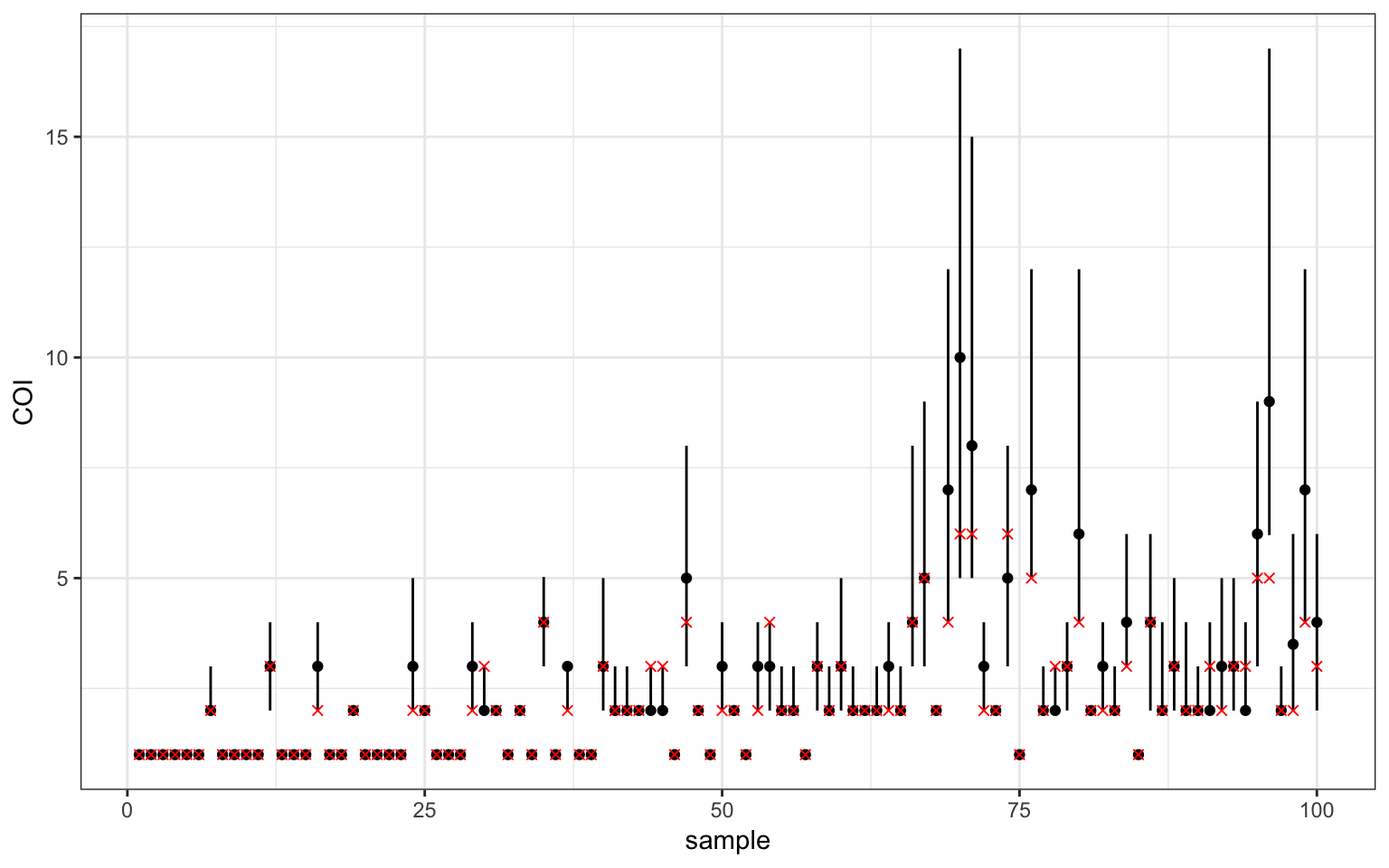
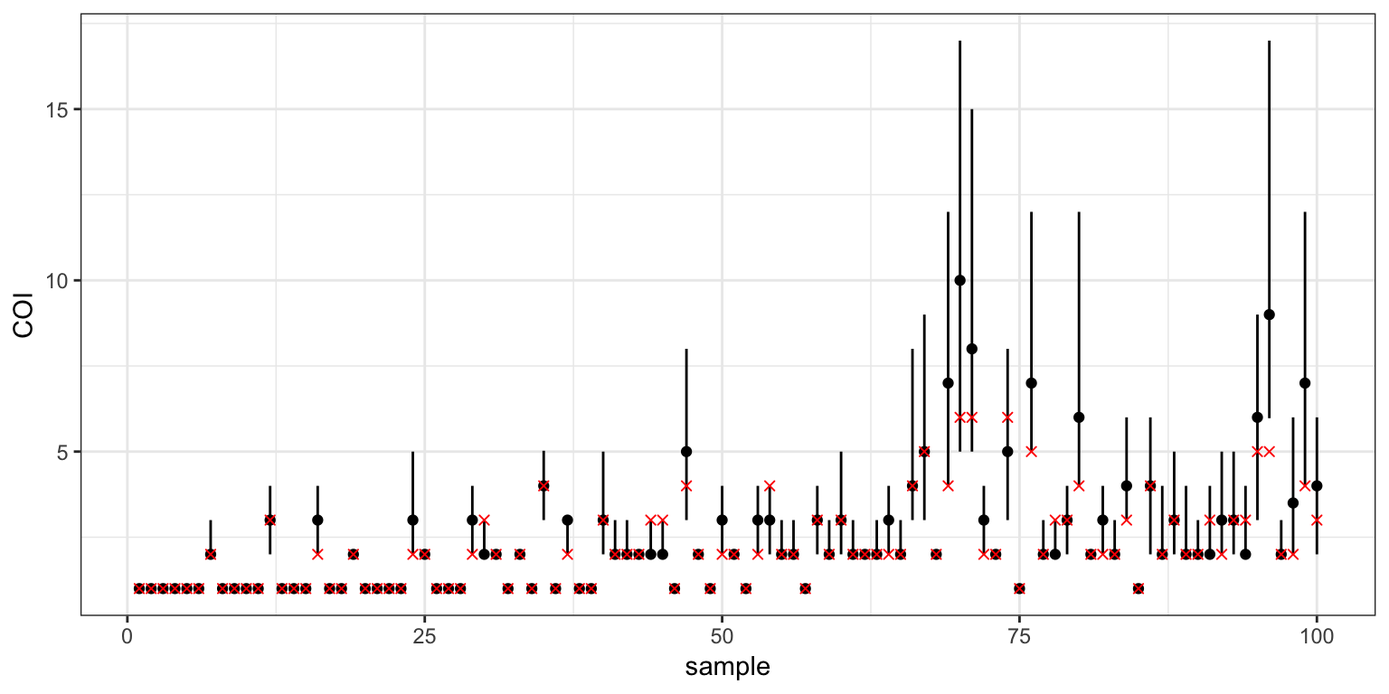
expanded complex priors tutorial

diff --git a/docs/articles/complex-priors.html b/docs/articles/complex-priors.html
@@ -5,11 +5,11 @@
 <meta charset="utf-8">
 <meta http-equiv="X-UA-Compatible" content="IE=edge">
 <meta name="viewport" content="width=device-width, initial-scale=1.0">
-<title>Tutorial 2: more realistic priors • MALECOT</title>
+<title>Tutorial 2: more realistic data and priors • MALECOT</title>
 <!-- jquery --><script src="https://code.jquery.com/jquery-3.1.0.min.js" integrity="sha384-nrOSfDHtoPMzJHjVTdCopGqIqeYETSXhZDFyniQ8ZHcVy08QesyHcnOUpMpqnmWq" crossorigin="anonymous"></script><!-- Bootstrap --><link href="https://maxcdn.bootstrapcdn.com/bootswatch/3.3.7/yeti/bootstrap.min.css" rel="stylesheet" crossorigin="anonymous">
 <script src="https://maxcdn.bootstrapcdn.com/bootstrap/3.3.7/js/bootstrap.min.js" integrity="sha384-Tc5IQib027qvyjSMfHjOMaLkfuWVxZxUPnCJA7l2mCWNIpG9mGCD8wGNIcPD7Txa" crossorigin="anonymous"></script><!-- Font Awesome icons --><link href="https://maxcdn.bootstrapcdn.com/font-awesome/4.6.3/css/font-awesome.min.css" rel="stylesheet" integrity="sha384-T8Gy5hrqNKT+hzMclPo118YTQO6cYprQmhrYwIiQ/3axmI1hQomh7Ud2hPOy8SP1" crossorigin="anonymous">
 <!-- clipboard.js --><script src="https://cdnjs.cloudflare.com/ajax/libs/clipboard.js/1.7.1/clipboard.min.js" integrity="sha384-cV+rhyOuRHc9Ub/91rihWcGmMmCXDeksTtCihMupQHSsi8GIIRDG0ThDc3HGQFJ3" crossorigin="anonymous"></script><!-- pkgdown --><link href="../pkgdown.css" rel="stylesheet">
-<script src="../jquery.sticky-kit.min.js"></script><script src="../pkgdown.js"></script><meta property="og:title" content="Tutorial 2: more realistic priors">
+<script src="../jquery.sticky-kit.min.js"></script><script src="../pkgdown.js"></script><meta property="og:title" content="Tutorial 2: more realistic data and priors">
 <meta property="og:description" content="">
 <meta name="twitter:card" content="summary">
 <!-- mathjax --><script src="https://mathjax.rstudio.com/latest/MathJax.js?config=TeX-AMS-MML_HTMLorMML"></script><!--[if lt IE 9]>
@@ -85,7 +85,7 @@
       </header><div class="row">
   <div class="col-md-9 contents">
     <div class="page-header toc-ignore">
-      <h1>Tutorial 2: more realistic priors</h1>
+      <h1>Tutorial 2: more realistic data and priors</h1>
                         <h4 class="author">Vignette Author</h4>
             
             <h4 class="date">2018-09-17</h4>
@@ -101,19 +101,19 @@
 <ul>
 <li>different types of prior on COI</li>
 <li>more realistic priors on allele frequencies</li>
-<li>estimating error rates</li>
+<li>dealing with missing data and errors</li>
 </ul>
-<p>This vignette follows on from the previous tutorial - or you can pick up at this point by running these lines:</p>
+<p>This vignette follows on from the previous tutorial - or you can pick up here by running these lines:</p>
 <div class="sourceCode"><pre class="sourceCode r"><code class="sourceCode r"><span class="co"># load output of previous tutorial</span>
 mysim &lt;-<span class="st"> </span><span class="kw"><a href="../reference/malecot_file.html">malecot_file</a></span>(<span class="st">"tutorial1_mysim.rds"</span>)
 myproj &lt;-<span class="st"> </span><span class="kw"><a href="../reference/malecot_file.html">malecot_file</a></span>(<span class="st">"tutorial1_myproj.rds"</span>)</code></pre></div>
 <div id="more-complex-priors-on-coi" class="section level3">
 <h3 class="hasAnchor">
 <a href="#more-complex-priors-on-coi" class="anchor"></a>More complex priors on COI</h3>
-<p>The previous model assumed a uniform prior on COI. This tends to be too permissive for real data as it gives considerable weight to high values and can therefore lead to an over-estimation of COIs. There are two alternative options implemented in MALECOT - the Poisson distribution and the negative binomial distribution.</p>
+<p>The previous model assumed a uniform prior on COI. This tends to be too permissive for real data as it gives considerable weight to high COIS and can therefore lead to over-estimation. There are two alternative priors implemented in MALECOT - the Poisson distribution and the negative binomial distribution.</p>
 <p>The Poisson distribution assumes that COIs are clustered around a mean value. It is what we would expect if all individuals in the population were becoming infected and clearing infections at the same constant rate. The negative binomial distribution can be thought of as an over-dispersed Poisson distribution (i.e. it allows for a greater spread of values around the mean). It more closely reflects a situation where there is heterogeneity in exposure, meaning some individuals tend to be heavily infected and some only lightly infected. Note that whaterver prior we choose, COIs will still be truncated at <code>COI_max</code>.</p>
-<p>The simulated data were generated from a Poisson distribution, and so we could use this prior to exactly match the model to the simulated data. However, in reality we will not have this luxury, and so here we will use a negative binomial prior. We can use the parameter <code>COI_dispersion</code> to set the level of over-dispersion compared to the Poisson distribution - for example, a value of 2 means the prior variance will be twice that of the Poisson distribution. The argument <code>COI_mean = TRUE</code> tells the model that we want to estimate the mean COI for each subpopulation, rather than using a set value.</p>
-<p>In some cases we may want to specify the COI of certain samples manually - for example if we want to use other programs to estimate the COI and then use MALECOT to estimate the population structure. This can be accommodated using the <code>COI_manual</code> argument, which takes a vector of length equal to the number of samples. Values of -1 indicate that the COI should be estimated, while positive values indicate that the COI should be fixed at that value. In this example we will assume that we know the true COIs of the last 10 samples.</p>
+<p>The simulated data were generated from a Poisson distribution, and so we could use this prior to exactly match the inference model to the simulated data. However, in reality we will not have this luxury, and so here we will use a negative binomial prior. We can use the parameter <code>COI_dispersion</code> to set the level of over-dispersion compared to the Poisson distribution - for example, a value of 2 means the prior variance will be twice that of the Poisson distribution. The argument <code>COI_mean = TRUE</code> tells the model that we want to estimate the mean COI for each subpopulation, rather than using a set value.</p>
+<p>In some cases we may want to specify the COI of certain samples manually - for example if we have used other programs to estimate the COI using different methods. This can be accommodated using the <code>COI_manual</code> argument, which takes a vector of length equal to the number of samples. Values of -1 indicate that the COI should be estimated, while positive values indicate that the COI should be fixed at that value. In this example we will assume that we know the true COIs of the last 10 samples.</p>
 <div class="sourceCode"><pre class="sourceCode r"><code class="sourceCode r"><span class="co"># define some COIs manually</span>
 known_COI &lt;-<span class="st"> </span><span class="kw">rep</span>(-<span class="dv">1</span>,<span class="dv">100</span>)
 known_COI[<span class="dv">91</span>:<span class="dv">100</span>] &lt;-<span class="st"> </span>mysim$true_m[<span class="dv">91</span>:<span class="dv">100</span>]
@@ -144,75 +144,27 @@ myproj</code></pre></div>
 ##    estimate error = FALSE
 ##    e1 = 0
 ##    e2 = 0</code></pre>
-<p>As before, we run the MCMC using the <code><a href="../reference/run_mcmc.html">run_mcmc()</a></code> command.</p>
-<div class="sourceCode"><pre class="sourceCode r"><code class="sourceCode r">myproj &lt;-<span class="st"> </span><span class="kw"><a href="../reference/run_mcmc.html">run_mcmc</a></span>(myproj, <span class="dt">K =</span> <span class="dv">1</span>:<span class="dv">5</span>, <span class="dt">burnin =</span> <span class="fl">1e4</span>, <span class="dt">converge_test =</span> <span class="fl">1e2</span>, <span class="dt">samples =</span> <span class="fl">1e3</span>,
-                   <span class="dt">rungs =</span> <span class="dv">10</span>, <span class="dt">pb_markdown =</span>  <span class="ot">TRUE</span>)</code></pre></div>
-<pre><code>## Running MCMC for K = 1
+<p>As before, we run the MCMC using the <code><a href="../reference/run_mcmc.html">run_mcmc()</a></code> command:</p>
+<div class="sourceCode"><pre class="sourceCode r"><code class="sourceCode r">myproj &lt;-<span class="st"> </span><span class="kw"><a href="../reference/run_mcmc.html">run_mcmc</a></span>(myproj, <span class="dt">K =</span> <span class="dv">3</span>, <span class="dt">burnin =</span> <span class="fl">1e4</span>, <span class="dt">converge_test =</span> <span class="fl">1e2</span>, <span class="dt">samples =</span> <span class="fl">1e3</span>,
+                   <span class="dt">rungs =</span> <span class="dv">1</span>, <span class="dt">pb_markdown =</span>  <span class="ot">TRUE</span>)</code></pre></div>
+<pre><code>## Running MCMC for K = 3
 ## Burn-in phase
 ## 
   |                                                                       
   |=================================================================| 100%
-##    converged within 900 iterations
+##    converged within 100 iterations
 ## Sampling phase
 ## 
   |                                                                       
   |=================================================================| 100%
-##    completed in 4.92508 seconds
-## 
-## Running MCMC for K = 2
-## Burn-in phase
-## 
-  |                                                                       
-  |=================================================================| 100%
-##    converged within 3300 iterations
-## Sampling phase
-## 
-  |                                                                       
-  |=================================================================| 100%
-##    completed in 11.1526 seconds
-## 
-## Running MCMC for K = 3
-## Burn-in phase
-## 
-  |                                                                       
-  |=================================================================| 100%
-##    converged within 700 iterations
-## Sampling phase
-## 
-  |                                                                       
-  |=================================================================| 100%
-##    completed in 8.43927 seconds
-## 
-## Running MCMC for K = 4
-## Burn-in phase
-## 
-  |                                                                       
-  |=================================================================| 100%
-##    converged within 200 iterations
-## Sampling phase
-## 
-  |                                                                       
-  |=================================================================| 100%
-##    completed in 9.04909 seconds
-## 
-## Running MCMC for K = 5
-## Burn-in phase
-## 
-  |                                                                       
-  |=================================================================| 100%
-##    converged within 300 iterations
-## Sampling phase
-## 
-  |                                                                       
-  |=================================================================| 100%
-##    completed in 12.2001 seconds
+##    completed in 0.374105 seconds
 ## 
 ## Processing results</code></pre>
-<pre><code>## Total run-time: 49.03 seconds</code></pre>
-<p>As before, we need to check that we are happy with the behaviour of our MCMC by looking at GTI paths and trace plots etc. Assuming everything looks OK, we can go ahead and produce the structure plot and posterior COIs against the true values:</p>
+<pre><code>## Total run-time: 0.88 seconds</code></pre>
+<p>As before, we need to check that we are happy with the behaviour of our MCMC by looking at GTI paths, trace plots, and any other useful diagnostics. Assuming everything looks OK, we can go ahead and produce the structure and posterior COI plots:</p>
 <div class="sourceCode"><pre class="sourceCode r"><code class="sourceCode r"><span class="co"># structure plot</span>
 <span class="kw"><a href="../reference/plot_qmatrix.html">plot_qmatrix</a></span>(myproj, <span class="dt">K =</span> <span class="dv">3</span>, <span class="dt">divide_ind_on =</span> <span class="ot">TRUE</span>)</code></pre></div>
-<p><img src="complex-priors_files/figure-html/unnamed-chunk-5-1.png" width="700"></p>
+<p><img src="complex-priors_files/figure-html/unnamed-chunk-5-1.png" width="768"></p>
 <div class="sourceCode"><pre class="sourceCode r"><code class="sourceCode r"><span class="co"># plot posterior COIs</span>
 posterior_m &lt;-<span class="st"> </span><span class="kw"><a href="../reference/plot_m_quantiles.html">plot_m_quantiles</a></span>(myproj, <span class="dt">K =</span> <span class="dv">3</span>)
 
@@ -220,21 +172,111 @@ posterior_m &lt;-<span class="st"> </span><span class="kw"><a href="../reference
 <span class="kw">library</span>(ggplot2)
 posterior_m &lt;-<span class="st"> </span>posterior_m +<span class="st"> </span><span class="kw"><a href="http://www.rdocumentation.org/packages/ggplot2/topics/geom_point">geom_point</a></span>(<span class="kw"><a href="http://www.rdocumentation.org/packages/ggplot2/topics/aes">aes</a></span>(<span class="dt">x =</span> <span class="dv">1</span>:<span class="dv">100</span>, <span class="dt">y =</span> mysim$true_m), <span class="dt">col =</span> <span class="st">"red"</span>, <span class="dt">shape =</span> <span class="dv">4</span>)
 posterior_m</code></pre></div>
-<p><img src="complex-priors_files/figure-html/unnamed-chunk-5-2.png" width="700"></p>
-<p>Notice that the 95% credible intervals in this plot are tighter than under the uniform prior of the previous tutorial. This is because a series of low COI samples in a subpopulation tells us something about the overall transmission intensity of that subpopulation, which in turn makes it less likely that we will see high COI samples in future samples. Notice also that the final 10 samples have their COI fixed at the correct value, as specified by the <code>COI_manual</code> argument.</p>
-<p>Next we can look at the estimated mean COI for each of the</p>
+<p><img src="complex-priors_files/figure-html/unnamed-chunk-6-1.png" width="768"></p>
+<p>Notice that the 95% credible intervals in this plot are tighter than in the previous tutorial. This is because our prior now assumes that COIs are clustered around a mean value for each subpopulation. Notice also that the final 10 samples have their COI fixed at the correct value, as specified by the <code>COI_manual</code> argument.</p>
+<p>Next we can look at the estimated mean COI for each of the subpopulations:</p>
 <div class="sourceCode"><pre class="sourceCode r"><code class="sourceCode r"><span class="kw"><a href="../reference/plot_COI_mean_quantiles.html">plot_COI_mean_quantiles</a></span>(myproj, <span class="dt">K =</span> <span class="dv">3</span>)</code></pre></div>
-<p><img src="complex-priors_files/figure-html/unnamed-chunk-6-1.png" width="700"></p>
+<p><img src="complex-priors_files/figure-html/unnamed-chunk-7-1.png" width="700"></p>
+<p>Recall that the data were simulated from three subpopulations with true mean COIs of 1.2, 2, and 3 respectively. The model appears to have estimated roughly the same values, although in a different order. We can understand the ordering issue by looking at the structure plot above. In the structure plot, groupings read from left to right go 3, then 2, then 1; the reason being that MALECOT chooses groupings to make outputs as similar as possible over different values of <em>K</em>. If we read the mean COI estimates in this order (3,2,1) we can see that the model has indeed estimated the correct values.</p>
 </div>
 <div id="more-realistic-priors-on-allele-frequencies" class="section level3">
 <h3 class="hasAnchor">
 <a href="#more-realistic-priors-on-allele-frequencies" class="anchor"></a>More realistic priors on allele frequencies</h3>
 <p>(TODO)</p>
 </div>
-<div id="estimating-error-rates" class="section level3">
+<div id="missing-data-and-errors" class="section level3">
 <h3 class="hasAnchor">
-<a href="#estimating-error-rates" class="anchor"></a>Estimating error rates</h3>
-<p>Finally, we do not always want to assume that we have zero error in our data. Often true homozygotes will be called as heterozygotes (error 1), and true heterozygotes will be called as homozygotes (error 2). The probabilities of these two types of error can be specified in the model using the arguments <code>e1</code> and <code>e2</code>. Alternatively, these error probabilities can be estimated by setting <code>estimate_error = TRUE</code>, in which case a uniform prior is assumed ranging from 0 to <code>e1_max</code> for <code>e1</code>, and 0 to <code>e2_max</code> for <code>e2</code>. It is recommended to use sensible values for <code>e1_max</code> and <code>e2_max</code>, for example values of 1 are usually inappropriate as we do not expect all of our data to be mistakes.</p>
+<a href="#missing-data-and-errors" class="anchor"></a>Missing data and errors</h3>
+<p>Finally, we do not always want to assume that we have zero error in our data. Often true homozygotes will be miscalled as heterozygotes (error 1), and true heterozygotes will be miscalled as homozygotes (error 2). The probabilities of these two types of error can be specified in the model using the arguments <code>e1</code> and <code>e2</code>. We can either use fixed values, or these error probabilities can be estimated by setting <code>estimate_error = TRUE</code>, in which case a uniform prior is assumed ranging from 0 to <code>e1_max</code> for <code>e1</code>, and 0 to <code>e2_max</code> for <code>e2</code>. It is recommended to use sensible values for <code>e1_max</code> and <code>e2_max</code> - for example values of 1 are usually inappropriate as we do not expect all of our data to be mistakes.</p>
+<div class="sourceCode"><pre class="sourceCode r"><code class="sourceCode r">mysim_errors &lt;-<span class="st"> </span><span class="kw"><a href="../reference/sim_data.html">sim_data</a></span>(<span class="dt">n =</span> <span class="dv">100</span>, <span class="dt">L =</span> <span class="dv">24</span>, <span class="dt">K =</span> <span class="dv">3</span>, <span class="dt">e1 =</span> <span class="fl">0.1</span>, <span class="dt">e2 =</span> <span class="fl">0.05</span>, <span class="dt">prop_missing =</span> <span class="fl">0.1</span>)</code></pre></div>
+<p>Extra output:</p>
+<div class="sourceCode"><pre class="sourceCode r"><code class="sourceCode r"><span class="kw">names</span>(mysim_errors)</code></pre></div>
+<pre><code>## [1] "data"             "n"                "L"               
+## [4] "data_uncorrupted" "true_group"       "true_m"          
+## [7] "true_p"           "call"</code></pre>
+<p>Compare uncorrupted and corrupted data:</p>
+<div class="sourceCode"><pre class="sourceCode r"><code class="sourceCode r"><span class="kw">head</span>(mysim_errors$data)</code></pre></div>
+<pre><code>##   sample_ID pop locus1 locus2 locus3 locus4 locus5 locus6 locus7 locus8
+## 1   samp001   1    1.0    1.0    1.0    1.0    0.5    0.5    0.0    0.5
+## 2   samp002   1    1.0    1.0    1.0    0.5    0.5    0.5    0.5    0.0
+## 3   samp003   1    0.5    1.0    0.5    1.0    0.0    0.0    1.0    1.0
+## 4   samp004   1    0.5    0.5    1.0    0.5    0.5    1.0   -9.0    0.5
+## 5   samp005   1    1.0    0.5    1.0    0.5   -9.0    1.0    0.5    0.0
+## 6   samp006   1    1.0    0.5    1.0    0.5    0.5    0.5    0.5   -9.0
+##   locus9 locus10 locus11 locus12 locus13 locus14 locus15 locus16 locus17
+## 1    0.5     1.0     0.0     0.5     1.0     0.0       1     0.5     0.0
+## 2    0.0    -9.0     0.0     0.0     1.0     0.5       1     0.0     0.5
+## 3    0.0     0.5     1.0     1.0     1.0     0.0       1     0.0     0.0
+## 4    0.5     0.5     0.5     0.5     0.5     0.5       1     0.5     0.5
+## 5    0.5     1.0     0.5     0.5     0.5     0.5       1     0.5     0.5
+## 6    0.5     1.0    -9.0    -9.0     1.0     0.0       1    -9.0     0.0
+##   locus18 locus19 locus20 locus21 locus22 locus23 locus24
+## 1     0.0     0.5     1.0       0     1.0     0.5     1.0
+## 2     0.5     0.5     1.0       0     1.0     1.0     0.0
+## 3     1.0     1.0     0.5      -9     1.0     1.0     0.0
+## 4     0.5     0.5     0.5       0     0.5     0.5     0.5
+## 5     0.0     0.0     0.5       0     0.5     0.0     0.5
+## 6     0.5     0.5     0.5       0     0.5     0.5     0.5</code></pre>
+<div class="sourceCode"><pre class="sourceCode r"><code class="sourceCode r"><span class="kw">head</span>(mysim_errors$data_uncorrupted)</code></pre></div>
+<pre><code>##   sample_ID pop locus1 locus2 locus3 locus4 locus5 locus6 locus7 locus8
+## 1   samp001   1    1.0    1.0      1    1.0    0.5    0.5    0.0    0.5
+## 2   samp002   1    1.0    0.5      1    0.5    0.5    0.5    0.5    0.0
+## 3   samp003   1    1.0    1.0      1    1.0    0.0    0.0    1.0    1.0
+## 4   samp004   1    0.5    0.5      1    0.5    0.5    1.0    0.5    0.5
+## 5   samp005   1    1.0    0.5      1    0.5    0.0    1.0    0.5    0.0
+## 6   samp006   1    1.0    0.5      1    0.5    0.5    0.5    0.5    0.5
+##   locus9 locus10 locus11 locus12 locus13 locus14 locus15 locus16 locus17
+## 1    0.5     1.0     0.0     0.5     1.0     0.0       1     0.5     0.0
+## 2    0.0     1.0     0.0     0.0     1.0     0.5       1     0.0     0.5
+## 3    0.0     0.0     1.0     1.0     1.0     0.0       1     0.0     0.0
+## 4    0.5     0.5     0.5     0.5     0.5     0.5       1     0.5     0.5
+## 5    0.5     1.0     0.5     0.5     0.5     0.5       1     0.5     1.0
+## 6    0.5     1.0     1.0     0.5     1.0     0.0       1     0.0     0.0
+##   locus18 locus19 locus20 locus21 locus22 locus23 locus24
+## 1     0.0     0.5     1.0       0     1.0     0.5     1.0
+## 2     0.5     0.5     1.0       0     1.0     1.0     0.0
+## 3     1.0     1.0     0.0       0     1.0     1.0     0.0
+## 4     0.5     0.5     0.5       0     0.5     0.5     0.5
+## 5     0.0     0.0     0.0       0     0.5     0.0     0.5
+## 6     0.5     0.5     0.5       0     0.5     0.0     0.5</code></pre>
+<p>Create new project and bind data</p>
+<div class="sourceCode"><pre class="sourceCode r"><code class="sourceCode r">myproj_errors &lt;-<span class="st"> </span><span class="kw"><a href="../reference/malecot_project.html">malecot_project</a></span>()
+myproj_errors &lt;-<span class="st"> </span><span class="kw"><a href="../reference/bind_data_biallelic.html">bind_data_biallelic</a></span>(myproj_errors, mysim_errors$data, <span class="dt">ID_col =</span> <span class="dv">1</span>, <span class="dt">pop_col =</span> <span class="dv">2</span>)
+myproj_errors</code></pre></div>
+<pre><code>## DATA:
+##    data format = biallelic
+##    samples = 100
+##    loci = 24
+##    pops = 3
+##    missing data = 240 of 2400 gene copies (10%)
+## 
+## PARAMETER SETS:
+##    (none defined)</code></pre>
+<p>Check that registered 10% missing data.</p>
+<div class="sourceCode"><pre class="sourceCode r"><code class="sourceCode r"><span class="co"># create new parameter set</span>
+myproj_errors &lt;-<span class="st"> </span><span class="kw"><a href="../reference/new_set.html">new_set</a></span>(myproj_errors, <span class="dt">name =</span> <span class="st">"errors"</span>, <span class="dt">COI_model =</span> <span class="st">"poisson"</span>,
+                         <span class="dt">COI_max =</span> <span class="dv">20</span>, <span class="dt">estimate_COI_mean =</span> <span class="ot">TRUE</span>,
+                         <span class="dt">estimate_error =</span> <span class="ot">TRUE</span>, <span class="dt">e1_max =</span> <span class="fl">0.2</span>, <span class="dt">e2_max =</span> <span class="fl">0.2</span>)
+
+myproj_errors &lt;-<span class="st"> </span><span class="kw"><a href="../reference/run_mcmc.html">run_mcmc</a></span>(myproj_errors, <span class="dt">K =</span> <span class="dv">3</span>, <span class="dt">burnin =</span> <span class="fl">1e4</span>, <span class="dt">converge_test =</span> <span class="fl">1e2</span>, <span class="dt">samples =</span> <span class="fl">1e3</span>,
+                          <span class="dt">rungs =</span> <span class="dv">1</span>, <span class="dt">pb_markdown =</span>  <span class="ot">TRUE</span>)</code></pre></div>
+<pre><code>## Running MCMC for K = 3
+## Burn-in phase
+## 
+  |                                                                       
+  |=================================================================| 100%
+##    converged within 100 iterations
+## Sampling phase
+## 
+  |                                                                       
+  |=================================================================| 100%
+##    completed in 0.380256 seconds
+## 
+## Processing results</code></pre>
+<pre><code>## Total run-time: 0.67 seconds</code></pre>
+<div class="sourceCode"><pre class="sourceCode r"><code class="sourceCode r"><span class="kw"><a href="../reference/plot_e_quantiles.html">plot_e_quantiles</a></span>(myproj_errors)</code></pre></div>
+<pre><code>## using K = 3 by default</code></pre>
+<p><img src="complex-priors_files/figure-html/unnamed-chunk-15-1.png" width="700"></p>
 </div>
   </div>
 

diff --git a/docs/articles/tutorial-biallelic.html b/docs/articles/tutorial-biallelic.html
@@ -139,7 +139,7 @@
 ## 4       0       0       0       1       0       1       1
 ## 5       0       1       0       0       0       1       1
 ## 6       0       0       0       1       0       0       1</code></pre>
-<p>Note that this is the required format <strong>for bi-allelic data only</strong> - multi-allelic data is dealt with in <a href="https://bobverity.github.io/MALECOT/articles/tutorial-multiallelic.html">this vignette</a>.</p>
+<p>Note that this is the required format <strong>for bi-allelic data only</strong> - multi-allelic data is dealt with in <a href="https://bobverity.github.io/MALECOT/articles/tutorial-multiallelic.html">another vignette</a>.</p>
 <p>Data must be in the form of a dataframe, with samples in rows and loci in columns. When using real data, functions such as <code>read.csv()</code> and <code>read.table()</code> can be used to import data in this format. There are several meta-data columns in the example above, including the sample ID and the population of origin. These meta-data columns are optional and can be turned on or off when loading the data into a project.</p>
 <p>The actual genetic data must be one of the following values</p>
 <ul>
@@ -148,7 +148,7 @@
 <li>0.5 = heterozygote (both alleles seen)</li>
 <li>-9 = missing data (this value can be specified, -9 is the default)</li>
 </ul>
-<p>MALECOT currently does not use within-sample allele frequency data - for example the raw read depth of REF vs. ALT alleles - and hence read depths should be converted to homozygote/heterozygote calls prior to analysis. MALECOT does, however, include error terms that allow for misclassification of homozygotes as heterozygotes and vice versa, which can account for some noise in the data.</p>
+<p>MALECOT currently does not use within-sample allele frequency data - for example the raw read depth of REF vs. ALT alleles - and hence read depths should be converted to homozygote/heterozygote calls prior to analysis. It does, however, include error terms that allow for misclassification of homozygotes as heterozygotes and vice versa, which can account for some noise in the data.</p>
 </div>
 <div id="create-a-project-and-read-in-data" class="section level3">
 <h3 class="hasAnchor">
@@ -195,7 +195,7 @@ myproj &lt;-<span class="st"> </span><span class="kw"><a href="../reference/bind
 ##    estimate error = FALSE
 ##    e1 = 0
 ##    e2 = 0</code></pre>
-<p>Now we are ready to run a basic MCMC. We will start by exploring values of <em>K</em> from 1 to 5, using 10,000 burn-in iterations and 1000 sampling iterations. By default the MCMC has <code>auto_converge</code> turned on, meaning it will test for convergence every <code>convergence_test</code> iterations and will exit if convergence is reached (<code>convergence_test = burnin/10</code> by default). Hence, it is generally a good idea to set <code>burnin</code> to be higher than expected, as the MCMC will adjust this number down if needed. The number of sampling iterations can also be tuned. Our aim when choosing the number of sampling iterations should be to obtain enough samples that our posterior estimates are accurate to an acceptable tolerance level, but not so many that we waste time running the MCMC for long periods past this point. We will look into this parameter again once the MCMC has completed. The most unfamiliar parameter for most users will be the number of “rungs”. MALECOT runs multiple MCMC chains simultaneously, each at a different rung on a “temperature ladder”. The cold chain is our ordinary MCMC chain, and the hot chains serve two purposes: 1) they improve MCMC mixing, 2) they are central to the GTI method of estimating the evidence for different models. Finally, for the sake of this document we will run with <code>pb_markdown = TRUE</code> to avoid printing large amounts of output, but you should omit this argument.</p>
+<p>Now we are ready to run a basic MCMC. We will start by exploring values of <em>K</em> from 1 to 5, using 10,000 burn-in iterations and 1000 sampling iterations. By default the MCMC has <code>auto_converge</code> turned on, meaning it will test for convergence every <code>convergence_test</code> iterations and will exit if convergence is reached. Hence, it is generally a good idea to set <code>burnin</code> to be higher than expected, as the MCMC will adjust this number down if needed. The number of sampling iterations can also be tuned. Our aim when choosing the number of sampling iterations should be to obtain enough samples that our posterior estimates are accurate to an acceptable tolerance level, but not so many that we waste time running the MCMC for long periods past this point. We will look into this parameter again once the MCMC has completed. The most unfamiliar parameter for most users will be the number of “rungs”. MALECOT runs multiple MCMC chains simultaneously, each at a different rung on a “temperature ladder”. The cold chain is our ordinary MCMC chain, and the hot chains serve two purposes: 1) they improve MCMC mixing, 2) they are central to the GTI method of estimating the evidence for different models. Finally, for the sake of this document we will run with <code>pb_markdown = TRUE</code> to avoid printing large amounts of output, but you should omit this argument.</p>
 <div class="sourceCode"><pre class="sourceCode r"><code class="sourceCode r">myproj &lt;-<span class="st"> </span><span class="kw"><a href="../reference/run_mcmc.html">run_mcmc</a></span>(myproj, <span class="dt">K =</span> <span class="dv">1</span>:<span class="dv">5</span>, <span class="dt">burnin =</span> <span class="fl">1e4</span>, <span class="dt">converge_test =</span> <span class="fl">1e2</span>, <span class="dt">samples =</span> <span class="fl">1e3</span>,
                    <span class="dt">rungs =</span> <span class="dv">10</span>, <span class="dt">pb_markdown =</span>  <span class="ot">TRUE</span>)</code></pre></div>
 <pre><code>## Running MCMC for K = 1
@@ -208,7 +208,7 @@ myproj &lt;-<span class="st"> </span><span class="kw"><a href="../reference/bind
 ## 
   |                                                                       
   |=================================================================| 100%
-##    completed in 1.28065 seconds
+##    completed in 1.05436 seconds
 ## 
 ## Running MCMC for K = 2
 ## Burn-in phase
@@ -220,7 +220,7 @@ myproj &lt;-<span class="st"> </span><span class="kw"><a href="../reference/bind
 ## 
   |                                                                       
   |=================================================================| 100%
-##    completed in 2.14488 seconds
+##    completed in 1.78358 seconds
 ## 
 ## Running MCMC for K = 3
 ## Burn-in phase
@@ -232,7 +232,7 @@ myproj &lt;-<span class="st"> </span><span class="kw"><a href="../reference/bind
 ## 
   |                                                                       
   |=================================================================| 100%
-##    completed in 2.58735 seconds
+##    completed in 2.27436 seconds
 ## 
 ## Running MCMC for K = 4
 ## Burn-in phase
@@ -244,7 +244,7 @@ myproj &lt;-<span class="st"> </span><span class="kw"><a href="../reference/bind
 ## 
   |                                                                       
   |=================================================================| 100%
-##    completed in 3.06348 seconds
+##    completed in 2.84695 seconds
 ## 
 ## Running MCMC for K = 5
 ## Burn-in phase
@@ -256,10 +256,10 @@ myproj &lt;-<span class="st"> </span><span class="kw"><a href="../reference/bind
 ## 
   |                                                                       
   |=================================================================| 100%
-##    completed in 3.38136 seconds
+##    completed in 3.24119 seconds
 ## 
 ## Processing results</code></pre>
-<pre><code>## Total run-time: 14.16 seconds</code></pre>
+<pre><code>## Total run-time: 12.84 seconds</code></pre>
 <p>If any values of K failed to converge then we can use the same <code><a href="../reference/run_mcmc.html">run_mcmc()</a></code> function to re-run the MCMC for just a single value of K and with different parameters (for example a longer burn-in). This will overwrite the existing output for the specified value of K, but will leave all other values untouched:</p>
 </div>
 <div id="comparing-values-of-k" class="section level3">
@@ -268,7 +268,7 @@ myproj &lt;-<span class="st"> </span><span class="kw"><a href="../reference/bind
 <p>The GTI method estimates the evidence for a given model by combining information across multiple temperature rungs. These rungs provide a series of point estimates that together make a “path”, and the final evidence estimate is computed from the area between this path and the zero-line. We can visualise this path using the <code><a href="../reference/plot_GTI_path.html">plot_GTI_path()</a></code> function:</p>
 <div class="sourceCode"><pre class="sourceCode r"><code class="sourceCode r"><span class="kw"><a href="../reference/plot_GTI_path.html">plot_GTI_path</a></span>(myproj, <span class="dt">K =</span> <span class="dv">3</span>)</code></pre></div>
 <p><img src="tutorial-biallelic_files/figure-html/unnamed-chunk-10-1.png" width="700"></p>
-<p>Note that all plots produced by MALECOT are produced as <a href="https://ggplot2.tidyverse.org/">ggplot</a> objects, meaning they can be stored and modified later - for example by adding titles, legends etc.</p>
+<p>Note that all plots produced by MALECOT are produced as <a href="https://ggplot2.tidyverse.org/">ggplot</a> objects, meaning they can be stored and modified later - for example by adding titles and legends.</p>
 <p>In order for our evidence estimate to be unbiased it is important that the GTI path is relatively smooth. We can modify the smoothness of the path in two ways: 1) by increasing the number of <code>rungs</code> used in the MCMC, 2) by changing the value of <code>GTI_pow</code> which controls the curvature of the path (higher values lead to more steep curvature). Ideally we want a straight path, i.e. we want as little curvature as possible. In the example above we have a good number of rungs and the path is relatively straight, so there is no need to re-run the MCMC. <strong>This check should be performed on every value of K</strong>.</p>
 <p>Once we are happy with our GTI paths we can look at our evidence estimates, first of all in log space:</p>
 <div class="sourceCode"><pre class="sourceCode r"><code class="sourceCode r"><span class="kw"><a href="../reference/plot_logevidence_K.html">plot_logevidence_K</a></span>(myproj)</code></pre></div>
@@ -287,7 +287,7 @@ myproj &lt;-<span class="st"> </span><span class="kw"><a href="../reference/bind
 <p><img src="tutorial-biallelic_files/figure-html/unnamed-chunk-13-1.png" width="768"></p>
 <p>We can see that for <em>K</em>=3 (the most highly supported value of <em>K</em>) there is a clear split into three distinct subpopulations. The advantage of simulated data is that we can verify that this is the correct grouping by looking at <code>mysim$true_group</code>, although obviously this is not possible for real data.</p>
 <p>When reporting and publishing results it is a good idea to produce posterior allocation and COI plots for a range of values of <em>K</em> so that the reader has the option of visualising structure at multiple levels, and ideally this should also be backed up by a plot of the model evidence to give some idea of the model fit at each level. At this stage it is worth stressing the point made by many previous authors - <strong>the model used by MALECOT and similar programs is just a cartoon of reality, and there is no strict K in the real world</strong>. Instead, each K captures a different level of population structure, and while the evidence can help guide us towards values of <em>K</em> that fit the data well, it is just a guide and should be taken alongside other biological considerations.</p>
-<p>Alongside the posterior allocation plot, we can plot the posterior COI of all samples. The example below uses the <code>ggplot2</code> package to add the true (simulated) COIs to the plot in the form of red crosses.</p>
+<p>Next we will plot the posterior COI of all samples. The example below uses the <code>ggplot2</code> package to add the true (i.e. simulated) COIs to the plot in the form of red crosses.</p>
 <div class="sourceCode"><pre class="sourceCode r"><code class="sourceCode r"><span class="co"># plot posterior COIs</span>
 posterior_m &lt;-<span class="st"> </span><span class="kw"><a href="../reference/plot_m_quantiles.html">plot_m_quantiles</a></span>(myproj, <span class="dt">K =</span> <span class="dv">3</span>)
 
@@ -296,7 +296,7 @@ posterior_m &lt;-<span class="st"> </span><span class="kw"><a href="../reference
 posterior_m &lt;-<span class="st"> </span>posterior_m +<span class="st"> </span><span class="kw"><a href="http://www.rdocumentation.org/packages/ggplot2/topics/geom_point">geom_point</a></span>(<span class="kw"><a href="http://www.rdocumentation.org/packages/ggplot2/topics/aes">aes</a></span>(<span class="dt">x =</span> <span class="dv">1</span>:<span class="dv">100</span>, <span class="dt">y =</span> mysim$true_m), <span class="dt">col =</span> <span class="st">"red"</span>, <span class="dt">shape =</span> <span class="dv">4</span>)
 posterior_m</code></pre></div>
 <p><img src="tutorial-biallelic_files/figure-html/unnamed-chunk-14-1.png" width="768"></p>
-<p>Comparing the posterior 95% credible intervals (black) with the true COIs (red), we can see that the model has done well in some cases and poorly in others. COI estimates are most precise when the COI is very low (1 or 2), but are highly imprecise when COI is large. The model has also picked up the general trend in the simulated data, with the mean COI being lowest in the first subpopulation and highest in the last, but unfortunately it has systematically overestimated the COI as a whole. This is down to our choice of uniform prior on COI, which gave equal weight to any COI from 1 to 20. In fact, the simulated data are drawn from a more realistic Poisson distribution, in which COIs tend to be clustered around a central, and so the uniform prior gives too much flexibility in this example. We will address this issue, along with some other weaknesses of the model, in the <a href="https://bobverity.github.io/MALECOT/articles/complex-priors.html">next tutorial</a>.</p>
+<p>Comparing the posterior 95% credible intervals (black) with the true COIs (red), we can see that the model has done well in some cases and poorly in others. COI estimates are most precise when the COI is very low (1 or 2), but are highly imprecise when COI is large. The model has also picked up the general trend in the simulated data, with the mean COI being lowest in the first subpopulation and highest in the last, but unfortunately it has systematically overestimated the COI as a whole. This is down to our choice of uniform prior on COI, which gives equal weight to any COI from 1 to 20. In fact, the simulated data are drawn from a more realistic Poisson distribution, in which COIs tend to be clustered around a central value, and so the uniform prior gives too much flexibility in this example. We will address this issue, along with some other weaknesses of the model, in the <a href="https://bobverity.github.io/MALECOT/articles/complex-priors.html">next tutorial</a>.</p>
 </div>
   </div>
 

diff --git a/docs/articles/index.html b/docs/articles/index.html
@@ -120,7 +120,7 @@
       <p class="section-desc"></p>
 
       <ul>
-        <li><a href="complex-priors.html">Tutorial 2: more realistic priors</a></li>
+        <li><a href="complex-priors.html">Tutorial 2: more realistic data and priors</a></li>
         <li><a href="faq.html">Frequently Asked Questions</a></li>
         <li><a href="installation.html">Installing MALECOT</a></li>
         <li><a href="known-issues.html">Known Issues</a></li>

diff --git a/src/MCMC_biallelic.cpp b/src/MCMC_biallelic.cpp
@@ -306,8 +306,10 @@ void MCMC_biallelic::sampling_mcmc(Rcpp::List &args_functions, Rcpp::List &args_
     }
     
     // store COI_mean
-    if (COI_model==2 || COI_model==3) {
-      COI_mean_store[rep] = particle_vec[cold_rung].COI_mean_vec;
+    if (COI_model == 2 || COI_model == 3) {
+      for (int k=0; k<K; k++) {
+        COI_mean_store[rep][k] = particle_vec[cold_rung].COI_mean_vec[label_order[k]];
+      }
     }
     
     // update progress bars
